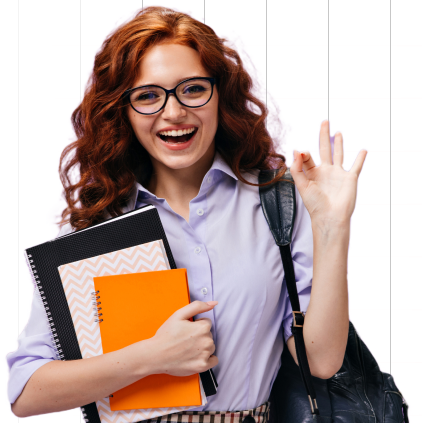
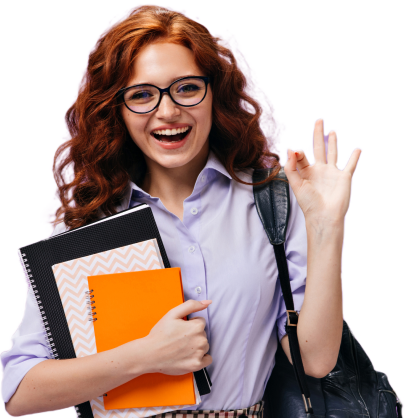
changed

diff --git a/Assets/style.css b/Assets/style.css
@@ -223,11 +223,20 @@ nav .icon-burger .line {
 
   color: #868686;
 }
+.hero_section_button1{
+  margin-top: 540px;
+  width: 200px;
+  height: 50px;
+
+  background: #42B883;
+  border-radius: 10px;
+}
 .hero_section_img {
   display: flex;
   justify-content: end;
   margin-top: 210px;
 }
+
 @media screen and (max-width: 768px) {
   .hero_section_content h1 {
     position: absolute;
@@ -276,7 +285,9 @@ nav .icon-burger .line {
 @media screen and (max-width: 894px) {
   .hero_section_img {
     display: flex;
-    width: 100%;
+    height: 230px;
+    margin-left: 300px;
     margin-top: 550px;
+    align-content: center;
   }
 }

diff --git a/intex.html b/intex.html
@@ -62,11 +62,14 @@
           Let’s discover new knowledge and new frnds and have a learning<br />
           experience with beutiful teachers
         </p>
-        <h3></h3>
+        
+       <!--  <h3>Connect with us</h3>
+        <img src="" alt="">-->
       </div>
       <div class="hero_section_img">
         <img src="./Assets/images/HERO IMG.png" alt="" />
       </div>
+      
     </section>
   </body>
 </html>
